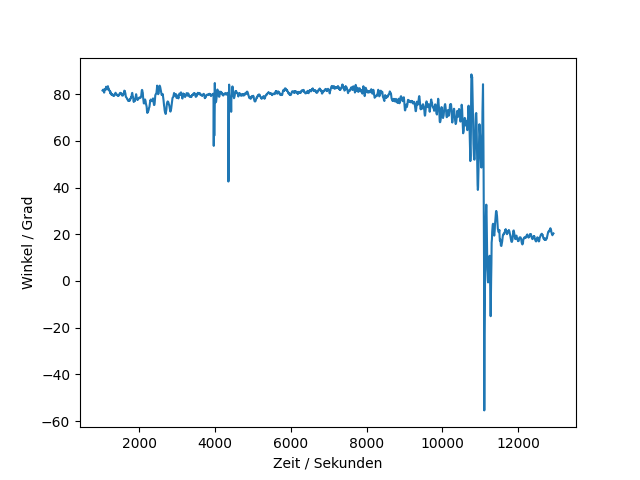
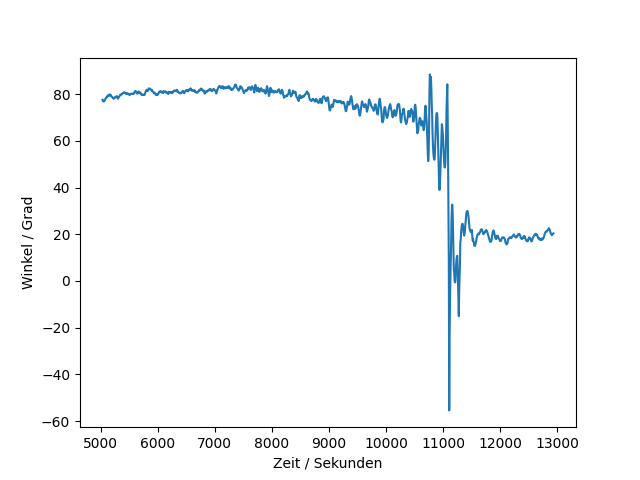
Letzer Index unter 60 update

diff --git a/main.py b/main.py
@@ -81,11 +81,12 @@ for i in range(3):
     index_under_60 = np.where(data_hamstring[i]["angle"] < 60)[0]
     start_index = 0
 
-    for index in index_under_60:
-        if index > 500:
+    # Differenz zwischen zwei Indexen unter 60, wenn größer 500 -> letzer unter 60
+    for a in range(len(index_under_60)):
+        if index_under_60[a] - index_under_60[a - 1] > 500:
             break
 
-        start_index = index
+        start_index = index_under_60[a]
 
     # Daten vor Trigger abschneiden (100 ms nach Trigger -> Anfang der neuen Daten)
     to_drop = np.arange(0, start_index + 100)
